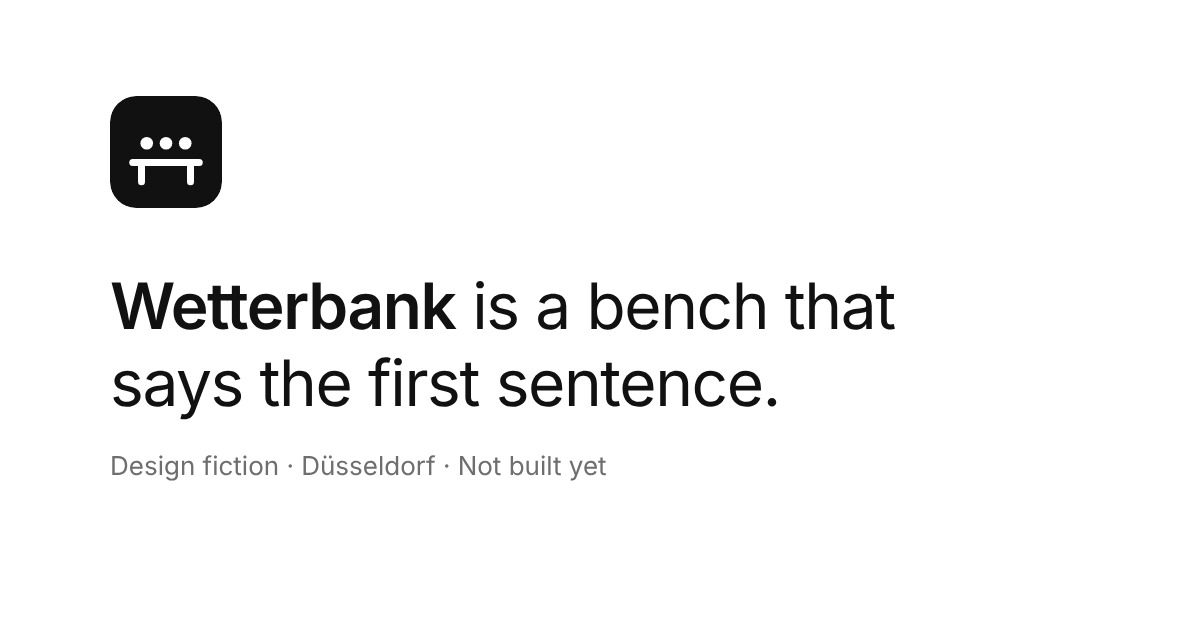
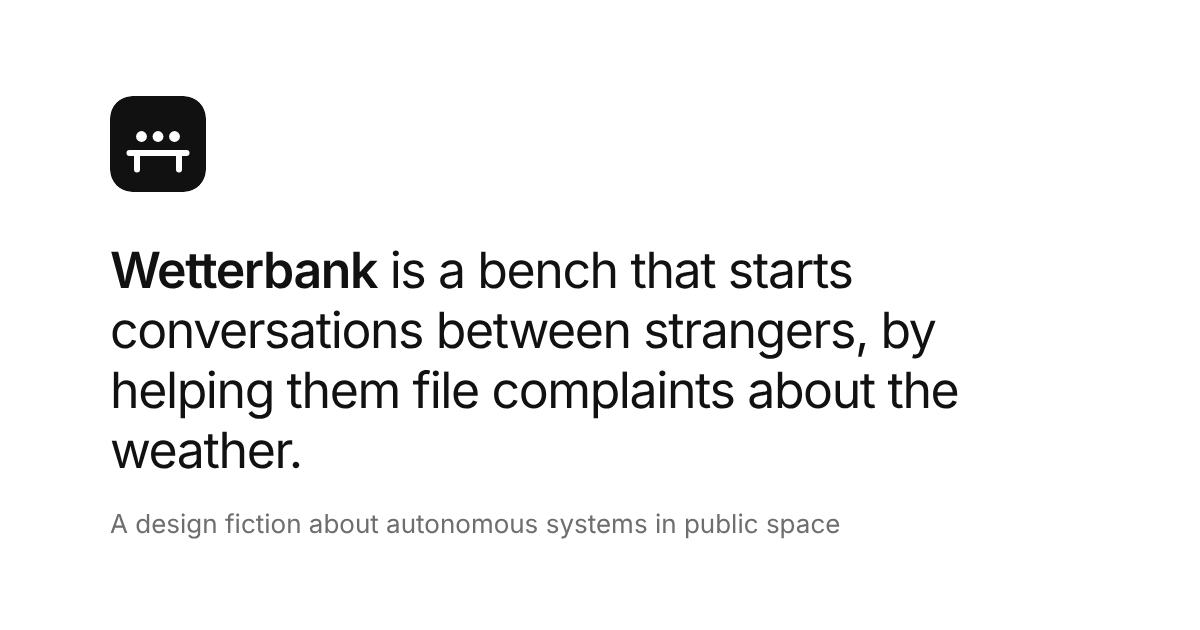
New headline and research line
Claude-Session: https://claude.ai/code/session_01CUoVtkKZ9AufNmgYfYjY6C

diff --git a/index.html b/index.html
@@ -3,14 +3,14 @@
 <head>
 <meta charset="utf-8">
 <meta name="viewport" content="width=device-width, initial-scale=1.0">
-<title>Wetterbank — a bench that says the first sentence</title>
-<meta name="description" content="Wetterbank is a bench for tram stops that says the first sentence. It opens with the weather, takes complaints, and ends with your name. A design fiction by Varun Sangani.">
+<title>Wetterbank — a bench that starts conversations between strangers</title>
+<meta name="description" content="Wetterbank is a bench that starts conversations between strangers, by helping them file complaints about the weather. A design fiction by Varun Sangani asking how autonomous systems will shape our encounters in public space.">
 <meta name="theme-color" content="#ffffff" media="(prefers-color-scheme: light)">
 <meta name="theme-color" content="#111111" media="(prefers-color-scheme: dark)">
 <meta property="og:type" content="website">
 <meta property="og:site_name" content="Wetterbank">
-<meta property="og:title" content="Wetterbank — a bench that says the first sentence">
-<meta property="og:description" content="It opens with the weather, takes complaints, and ends with your name. For tram stops where nobody talks.">
+<meta property="og:title" content="Wetterbank — a bench that starts conversations between strangers">
+<meta property="og:description" content="By helping them file complaints about the weather. A design fiction about autonomous systems in public space.">
 <meta property="og:image" content="https://va3runs.github.io/wetterbank/assets/og.png">
 <meta property="og:url" content="https://va3runs.github.io/wetterbank/">
 <meta name="twitter:card" content="summary_large_image">
@@ -142,8 +142,8 @@ footer a{color:var(--mute)}
 <main>
   <div class="hero">
     <svg class="icon" viewBox="0 0 64 64" width="72" height="72" role="img" aria-label="Wetterbank logo: a bench whose backrest is three dots, like someone typing"><rect width="64" height="64" rx="15" style="fill:var(--fg)"/><g style="fill:var(--bg)"><circle class="d1" cx="21" cy="27" r="3.6"/><circle class="d2" cx="32" cy="27" r="3.6"/><circle class="d3" cx="43" cy="27" r="3.6"/></g><g fill="none" style="stroke:var(--bg)" stroke-width="4" stroke-linecap="round"><path d="M13 38H51"/><path d="M18 38v11M46 38v11"/></g></svg>
-    <h1><strong>Wetterbank</strong> is a bench that says the first sentence.</h1>
-    <p class="lede">It opens with <strong>the weather</strong>, takes <strong>complaints</strong>, and ends with <strong>your name</strong>. For tram stops where nobody talks.</p>
+    <h1><strong>Wetterbank</strong> is a bench that starts conversations between strangers, by helping them file complaints about the weather.</h1>
+    <p class="lede">A design fiction asking how autonomous systems will shape our encounters in public space, as they move from our homes onto our streets.</p>
     <div class="actions">
       <a class="btn" href="#demo">Try it</a>
       <a href="#numbers">The numbers</a>
